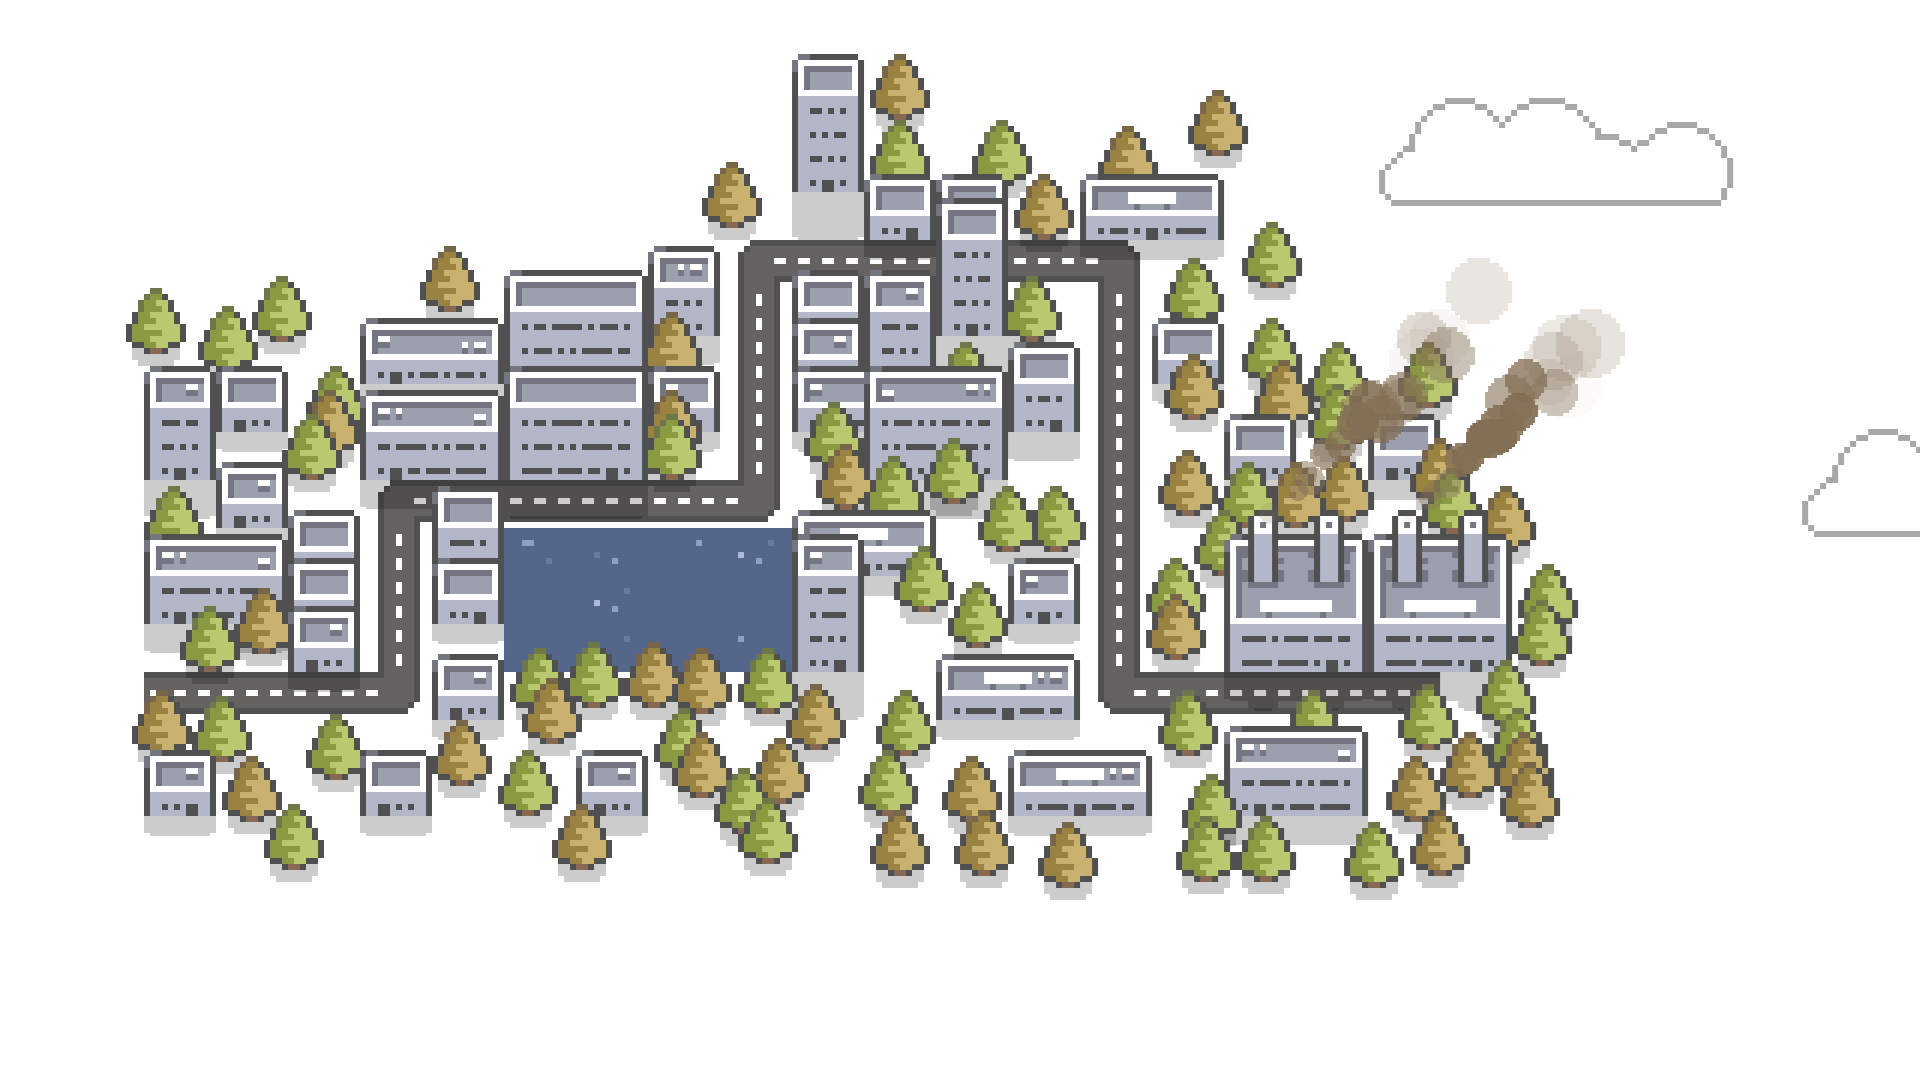
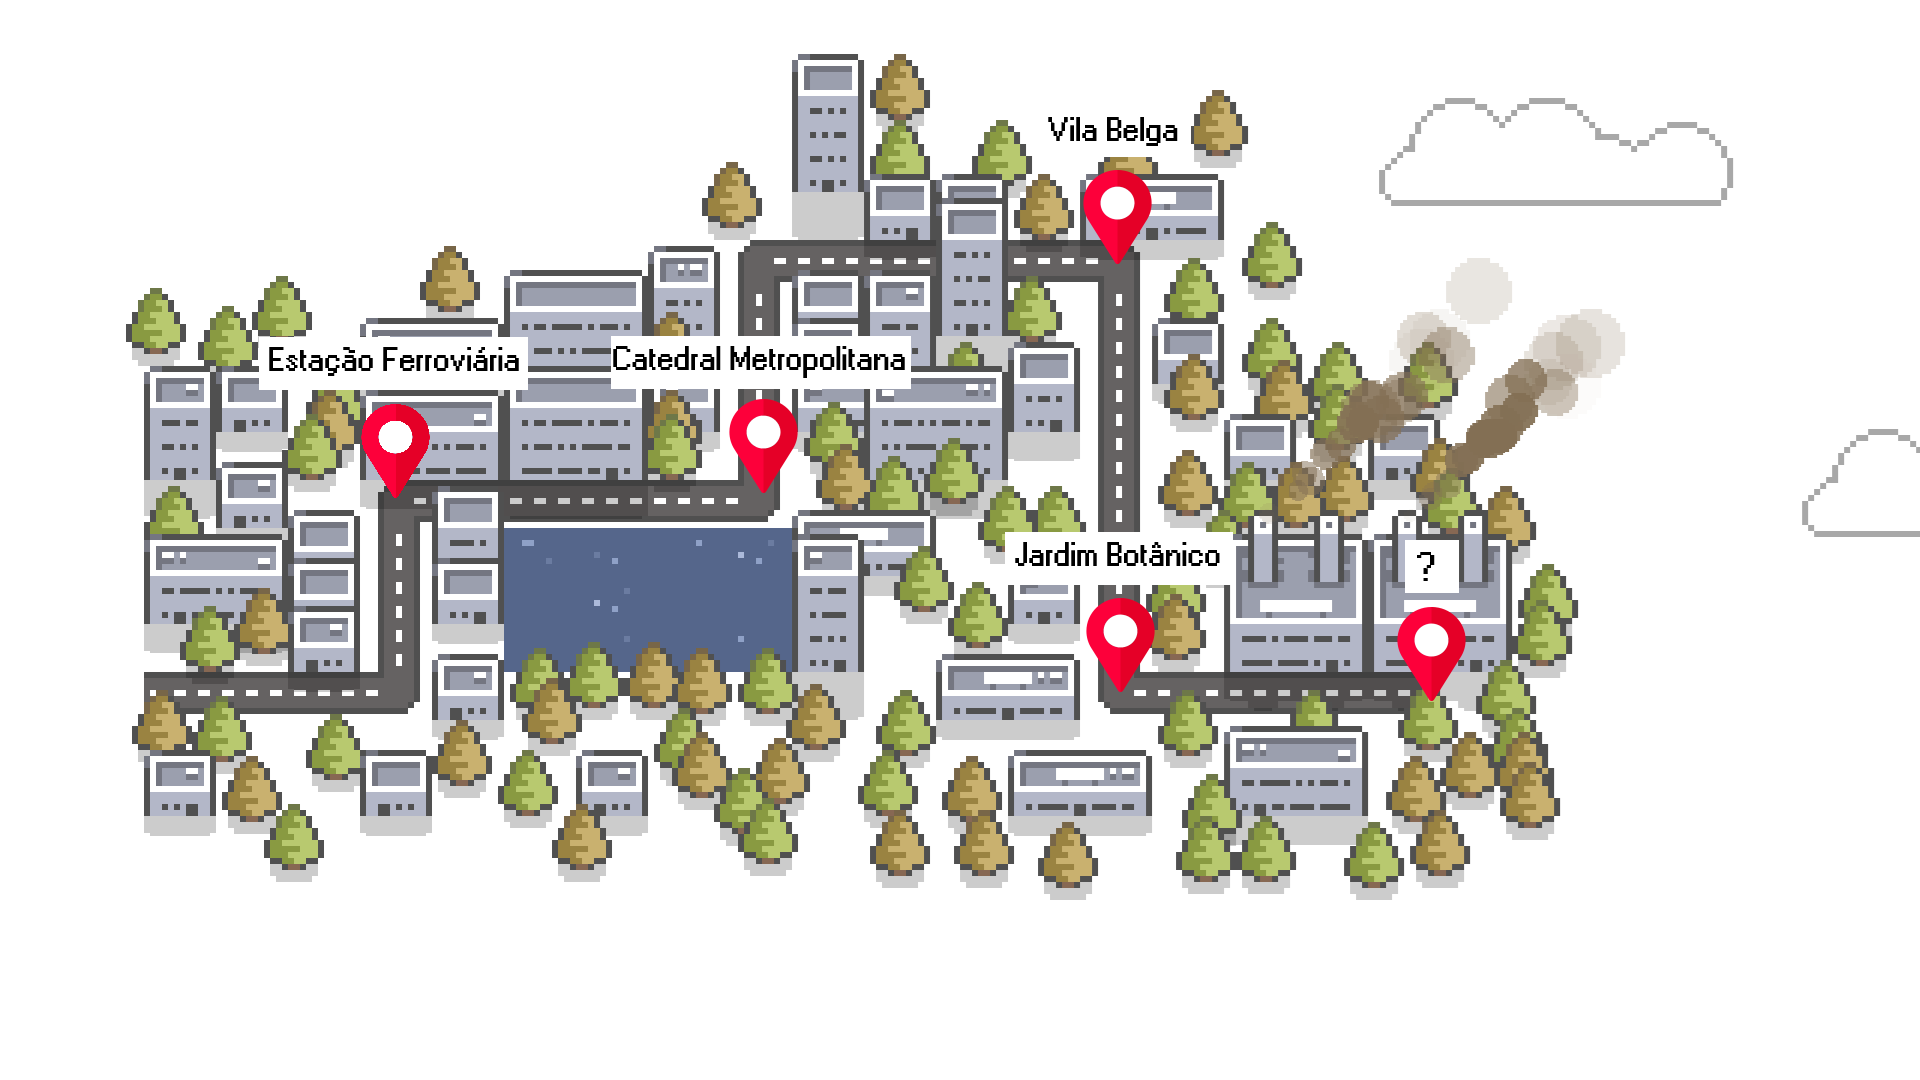
adição de missões, e novos elementos no mapa

diff --git a/core/src/main/java/com/aventurasaya/game/Display.java b/core/src/main/java/com/aventurasaya/game/Display.java
@@ -1,8 +1,10 @@
 package com.aventurasaya.game;
 
+import com.badlogic.gdx.Gdx;
 import com.badlogic.gdx.graphics.Texture;
 import com.badlogic.gdx.graphics.g2d.Sprite;
 import com.badlogic.gdx.graphics.g2d.SpriteBatch;
+import com.badlogic.gdx.math.Rectangle;
 
 public class Display {
 
@@ -10,47 +12,67 @@ public class Display {
     private Sprite heart;
     private Texture tMissionIcon;
     private Sprite missionIcon;
-    private Texture tMessage; // Imagem da mensagem
-    private Sprite messageSprite; // Sprite da mensagem
+    private Texture tMessage;
+    private Sprite messageSprite;
 
-    private boolean showMessage = true; // Controle para exibir ou ocultar a mensagem
-    private float messageTimer = 0; // Temporizador para a mensagem
+    private Texture tQuestIcon; // Imagem da quest
+    private Sprite questIcon; // Sprite da quest
+
+    private boolean showMessage = true;
+    private boolean showQuest = false; // Controle para exibir a quest
+    private float messageTimer = 0;
 
     public Display(SpriteBatch spriteBatch) {
         // Corações (vidas)
         tHeart = new Texture("heart.png");
         heart = new Sprite(tHeart);
-        heart.setSize(heart.getWidth() / 10f, heart.getHeight() / 10f);
+        heart.setSize(heart.getWidth() / 16f, heart.getHeight() / 16f);
 
         // Ícone de missões
-        tMissionIcon = new Texture("mail.png"); 
+        tMissionIcon = new Texture("mail1.png");
         missionIcon = new Sprite(tMissionIcon);
         missionIcon.setSize(missionIcon.getWidth() / 9f, missionIcon.getHeight() / 9f);
         missionIcon.setPosition(Main.WORLD_WIDTH - missionIcon.getWidth() - 30,
-                                Main.WORLD_HEIGHT - missionIcon.getHeight() - 20); 
+                Main.WORLD_HEIGHT - missionIcon.getHeight() - 20);
 
         // Mensagem
-        tMessage = new Texture("aviso.png"); 
+        tMessage = new Texture("aviso.png");
         messageSprite = new Sprite(tMessage);
-        messageSprite.setSize(messageSprite.getWidth() / 1.5f, messageSprite.getHeight() / 1.5f);
+        messageSprite.setSize(messageSprite.getWidth() / 1.2f, messageSprite.getHeight() / 1.2f);
         messageSprite.setPosition(Main.WORLD_WIDTH - messageSprite.getWidth() - 30,
-                                Main.WORLD_HEIGHT - messageSprite.getHeight() - 85); 
+                Main.WORLD_HEIGHT - messageSprite.getHeight() - 85);
+
+        // Quest ícone - Posicionado no canto superior esquerdo
+        tQuestIcon = new Texture("quests.png");
+        questIcon = new Sprite(tQuestIcon);
+        questIcon.setSize(questIcon.getWidth() / 1.2f, questIcon.getHeight() / 1.2f);
+        questIcon.setPosition(950, Main.WORLD_HEIGHT - questIcon.getHeight() - 85); // Margens de 30px
     }
 
     public void desenhaVidas(Player p, SpriteBatch spriteBatch, float delta) {
         // Atualiza o temporizador da mensagem
         if (showMessage) {
-            messageTimer += delta; // Incrementa o tempo decorrido
-            if (messageTimer >= 5) { // 5 segundos
-                showMessage = false; // Oculta a mensagem
+            messageTimer += delta;
+            if (messageTimer >= 5) {
+                showMessage = false;
             }
         }
 
+        // Detectar clique no ícone de missões
+        if (Gdx.input.justTouched()) {
+            float x = Gdx.input.getX();
+            float y = Gdx.graphics.getHeight() - Gdx.input.getY(); // Inverter o eixo Y
+
+            Rectangle missionBounds = missionIcon.getBoundingRectangle();
+            if (missionBounds.contains(x, y)) {
+                showQuest = !showQuest; // Alterna o valor de showQuest
+            }
+        }
         // Desenhar as vidas
         for (int i = 0; i < p.getVidas(); i++) {
-            float xOffset = i * (heart.getWidth() + 10); // Espaçamento de 10 pixels entre os corações
-            heart.setPosition(Main.WORLD_WIDTH - 150 - xOffset, // Começa no canto superior direito
-                Main.WORLD_HEIGHT - heart.getHeight() - 20); // Y fixo no topo
+            float xOffset = i * (heart.getWidth() + 10);
+            heart.setPosition(Main.WORLD_WIDTH - 150 - xOffset,
+                Main.WORLD_HEIGHT - heart.getHeight() - 35);
             heart.draw(spriteBatch);
         }
 
@@ -61,11 +83,17 @@ public class Display {
         if (showMessage) {
             messageSprite.draw(spriteBatch);
         }
+
+        // Desenhar a quest, se ativada
+        if (showQuest) {
+            questIcon.draw(spriteBatch);
+        }
     }
 
     public void dispose() {
         tHeart.dispose();
         tMissionIcon.dispose();
         tMessage.dispose();
+        tQuestIcon.dispose();
     }
 }

diff --git a/core/src/main/java/com/aventurasaya/game/GameScreen.java b/core/src/main/java/com/aventurasaya/game/GameScreen.java
@@ -21,10 +21,6 @@ public class GameScreen implements Screen {
     private Sprite aya;
     private boolean shouldSwitchToQuizScreen = false;
 
-    // Botão "X"
-    private Texture backButtonT;
-    private float backButtonX, backButtonY, backButtonWidth, backButtonHeight;
-
     private MovePlayer movePlayer;
 
 
@@ -39,7 +35,7 @@ public class GameScreen implements Screen {
 
         tAya = new Texture("aya.png");
         aya = new Sprite(tAya);
-        aya.setSize(aya.getWidth() / 5f, aya.getHeight() / 5f);
+        aya.setSize(aya.getWidth() / 1f, aya.getHeight() / 1f);
 
 
         movePlayer = new MovePlayer(aya, game);
@@ -57,16 +53,6 @@ public class GameScreen implements Screen {
 
     @Override
     public void show() {
-        // Carregue a textura do botão
-        backButtonT = new Texture("back.png");
-
-        // Defina as dimensões e a posição do botão
-        backButtonWidth = 50; // Largura do botão
-        backButtonHeight = 40; // Altura do botão
-        backButtonX = 10;// Margem da direita
-        backButtonY = Main.WORLD_HEIGHT - backButtonHeight - 10; // Margem do topo
-
-
     }
 
     @Override
@@ -80,9 +66,6 @@ public class GameScreen implements Screen {
         aya.draw(spriteBatch);
         display.desenhaVidas(p, spriteBatch, Gdx.graphics.getDeltaTime());
 
-
-        // Desenhe o botão "X"
-        spriteBatch.draw(backButtonT, backButtonX, backButtonY, backButtonWidth, backButtonHeight);
 
         movePlayer.update(delta);
 
@@ -125,7 +108,6 @@ public class GameScreen implements Screen {
     @Override
     public void dispose() {
         backGround.dispose();
-        backButtonT.dispose(); // Libera a textura do botão
         tAya.dispose(); // Libera a textura da Aya
     }
 
